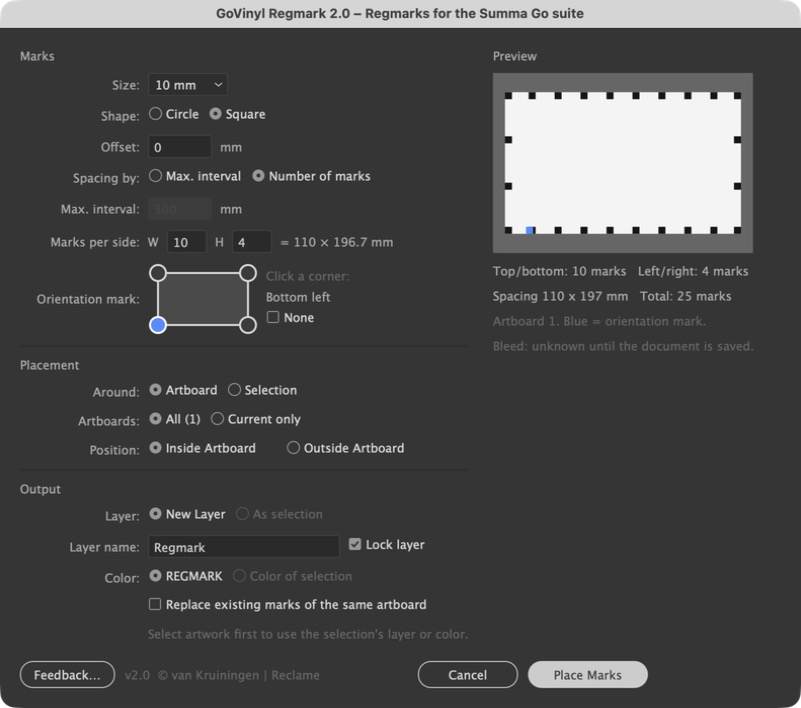
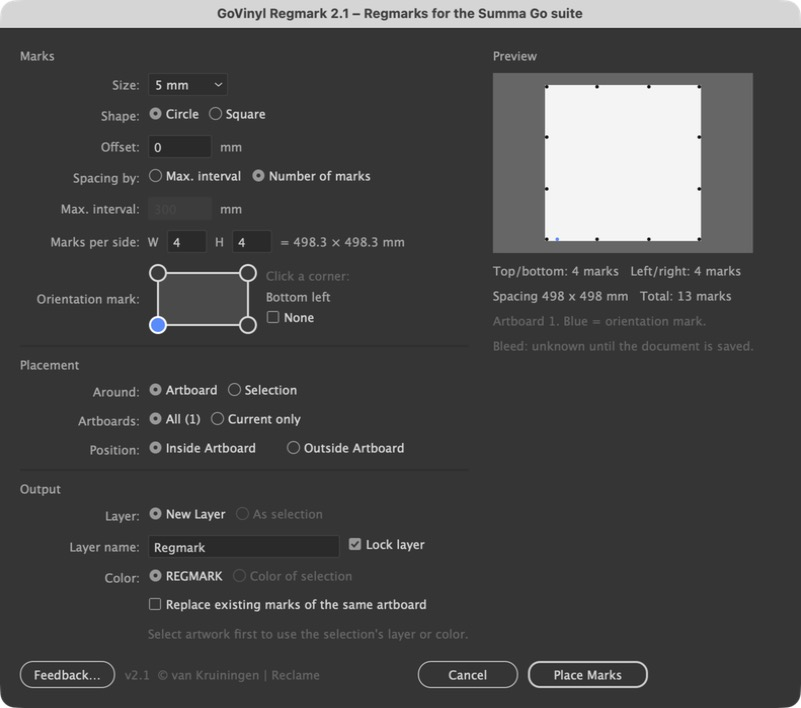
GoVinyl Regmark 2.1
- Small marks are drawn half as large in the preview
- README screenshot: 5 mm round marks, 4 x 4, on a 1500 x 1500 mm artboard

diff --git a/GoVinyl_Regmark_v2.1.js b/GoVinyl_Regmark_v2.1.js
@@ -23,7 +23,7 @@
  * ExtendScript (ES3): no let/const, no JSON object, no Array.indexOf.
  */
 
-var VERSION = "2.0";
+var VERSION = "2.1";
 var ISSUES_URL = "https://github.com/vankruiningen/govinyl-regmark/issues";
 var MM_TO_PT = 2.834645669;
 var PRESET_SIZES = [3, 5, 10];
@@ -1106,7 +1106,7 @@ function showDialog(doc, settings) {
         // honest, the enlarged mark grows away from the artboard edge, so a mark
         // that touches the edge from inside (or outside) still does so.
         var realR = st.radius * scale;
-        var r = Math.max(3.5, realR);
+        var r = Math.max(1.75, realR);
         var grow = r - realR;
         var cols = st.layout.columns;
         var eps = st.radius / 100;

diff --git a/tests/regmarks.test.js b/tests/regmarks.test.js
@@ -11,7 +11,7 @@ const path = require("path");
 const vm = require("vm");
 const assert = require("assert");
 
-// The script file carries its version in the name, e.g. GoVinyl_Regmark_v2.0.js.
+// The script file carries its version in the name, e.g. GoVinyl_Regmark_v2.1.js.
 const root = path.join(__dirname, "..");
 const scripts = fs.readdirSync(root).filter((name) => /^GoVinyl_Regmark_v\d+(\.\d+)*\.js$/.test(name));
 if (scripts.length !== 1) {

diff --git a/README.md b/README.md
@@ -43,13 +43,13 @@ GoVinyl Regmark is already in daily use at several sign shops besides ours. Thei
 ### In the menu, with a keyboard shortcut
 To start GoVinyl Regmark from the menu, or with a single key:
 
-1. **Put the script in Illustrator's Scripts folder** (for example `GoVinyl_Regmark_v2.0.js`):
+1. **Put the script in Illustrator's Scripts folder** (for example `GoVinyl_Regmark_v2.1.js`):
    - macOS: `/Applications/Adobe Illustrator 2026/Presets.localized/en_US/Scripts/`
    - Windows: `C:\Program Files\Adobe\Adobe Illustrator 2026\Presets\en_US\Scripts\`
 
-   Use your own Illustrator version and language folder. Remove older copies from this folder, then restart Illustrator. The script is now under **File > Scripts > GoVinyl_Regmark_v2.0**.
+   Use your own Illustrator version and language folder. Remove older copies from this folder, then restart Illustrator. The script is now under **File > Scripts > GoVinyl_Regmark_v2.1**.
 2. **Create an action for it:** open **Window > Actions**, click *Create New Set* (folder icon) and name it `GoVinyl`. Click *Create New Action* (plus icon), name it `GoVinyl Regmark`, choose a **Function Key** (for example F5) and click **Record**.
-3. In the Actions panel menu (☰), choose **Insert Menu Item...**, then choose **File > Scripts > GoVinyl_Regmark_v2.0** from Illustrator's menu bar and click **OK**.
+3. In the Actions panel menu (☰), choose **Insert Menu Item...**, then choose **File > Scripts > GoVinyl_Regmark_v2.1** from Illustrator's menu bar and click **OK**.
 4. Click **Stop** (square button) in the Actions panel.
 
 Press F5 to open GoVinyl Regmark. On a Mac keyboard you may need to hold **fn** for function keys.

diff --git a/CONTRIBUTING.md b/CONTRIBUTING.md
@@ -7,7 +7,7 @@ Use [Issues](https://github.com/vankruiningen/govinyl-regmark/issues/new/choose)
 
 ## Changing the code
 1. Fork the repository and create a branch for your change.
-2. Edit `GoVinyl_Regmark_v….js`. Keep it one file, so people can install it by downloading a single script. For a new version, raise `VERSION` in the script, rename the file to match (`git mv GoVinyl_Regmark_v2.0.js GoVinyl_Regmark_v2.1.js`) and add a section to `CHANGELOG.md`; the tests check that file name and version agree.
+2. Edit `GoVinyl_Regmark_v….js`. Keep it one file, so people can install it by downloading a single script. For a new version, raise `VERSION` in the script, rename the file to match (`git mv GoVinyl_Regmark_v2.1.js GoVinyl_Regmark_v2.2.js`) and add a section to `CHANGELOG.md`; the tests check that file name and version agree.
 3. Run the tests (see below) and try the script in Illustrator.
 4. Describe your change in `CHANGELOG.md`.
 5. Open a pull request and describe what you changed and how you tested it.

diff --git a/CHANGELOG.md b/CHANGELOG.md
@@ -1,5 +1,10 @@
 # Changelog
 
+## 2.1 - 2026-11-14
+
+### Changed
+- Small marks are drawn half as large in the preview, so the preview of a large document looks closer to the real proportions.
+
 ## 2.0 - 2026-11-14
 
 First public release, as **GoVinyl Regmark** (previously the in-house script *Summa Regmarks VKR Standard*).
